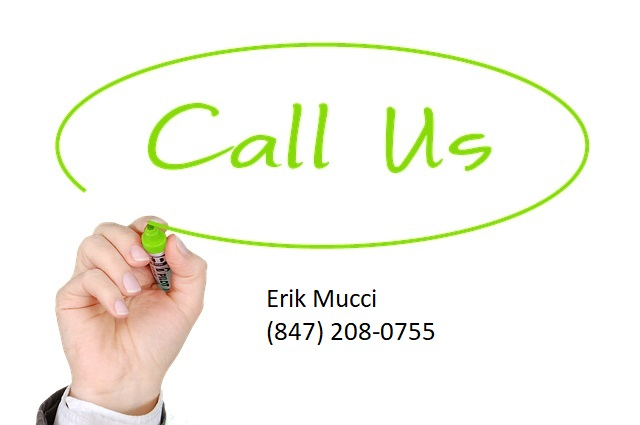
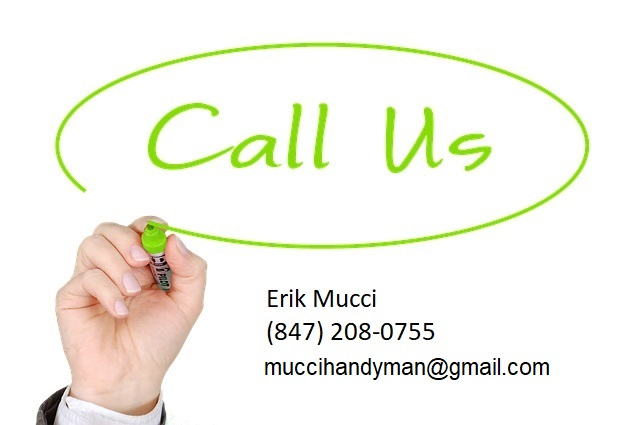
add email to callus

Changed region(s): [[0.4062, 0.8259, 0.875, 0.9176]]

diff --git a/services.html b/services.html
@@ -2,7 +2,8 @@
 <html class="no-js" lang="en">
 <head>
   <meta name="description" content="Mucci & Son contractor services include bath and kitchen remodeling, festool dustless drywall repair, custom woodwork, wood restoration, outside deck, heirloom painting, hardwood flooring, ceramic flooring, electrical and plumbing install">
-  <meta name="keywords" content="remodel, contractor, heirloom, painting, dustless drywall, woodwork, restoration, floor install, electrical, plumbing installation, restore, hardwood, ceramic, custom, kitchen, bedroom, recreation, living room, deck, gazebo, festool, chicago, schaumburg, bonded, licensed, remodeler, custom wood, residential, commercial, quality">
+  <meta name="keywords" content="remodel,contractor,painting,drywall,woodwork,restoration, 
+  residential,commericial,insurance,chicago,northwest suburbs,floor,install,electrical,plumbing,installation,restore, hardwood,ceramic,custom,kitchen,bedroom,deck, gazebo, chicago, schaumburg, northwest suburbs, bonded, licensed, remodeler">
   <meta charset="utf-8">
   <meta name="viewport" content="width=device-width, initial-scale=1.0">
   <link rel="stylesheet" href="css/foundation.css">
@@ -235,10 +236,10 @@
        <h3 id="floorInstallation">FLOOR INSTALLATION</h3 >
        <div>
         <p>
-            Our <span style="font-weight:bold">HARDWOOD FLOORING professionals</span> have 35 years of experience.  You can have your floors cleanly sanded and refinished with a variety of coatings.  Certified ad licensed refinishers will sand and finish your floors to match your needs.  In homes where there may be damage to the wood flooring, our shop can manufacture and match your existing planks.
+            Our <span style="font-weight:bold">HARDWOOD FLOORING professionals</span> have 35 years of experience. You can have your floors cleanly sanded and refinished with a variety of coatings. Certified and licensed refinishers will sand and finish your floors to match your needs. In homes where there may be damage to the wood flooring, our shop can manufacture and match your existing planks.
         </p>
         <p>
-            A variety of patterns are available when you wish to install new hardwood material.  You can choose from unfinished planking that can be sanded and stained to your specifications, or you may wish to select pre-finished material with a UV protective coating.  The choice is yours.  This can be discussed with <span style="font-weight:bold">Mucci and Son Contractors</span>.  Call for a consultation.
+            A variety of patterns are available when you wish to install new hardwood material.  You can choose from unfinished planking that can be sanded and stained to your specifications, or you may wish to select pre-finished material with a UV protective coating.  The choice is yours.  This can be discussed with <span style="font-weight:bold">Mucci and Son Contractors</span>. Call for a consultation.
         </p>
 <!--   		   The floor pictured below is the newer type of vinyl plank flooring.  The prep work was done by the home owner to save on expenses.  <span style="font-weight:bold">“MUCCI &amp; SON CONTRACTORS” </span> installed the vinyl flooring material and later returned to finish the base trim work.  The home owner saved money by doing the demo work of the original flooring material, and removing the old base trim molding. -->
         <p class="show-for-large-only">
@@ -254,7 +255,7 @@
           <figcaption>DARK MAPLE FLOOR!</figcaption>
           <!-- Floor pictures are posted with permission given to Frank Mucci 2018 -->
         <p>
-          More expert floor installations by <span style="font-weight:bold">“MUCCI &amp; SON CONTRACTORS” </span>!
+          More expert floor installations!
         </p>
           <img src="img/MucciFloor05.jpg" alt="Floor Install image">
           <figcaption>FRENCH KNOT WITH EXTRA BAND BORDER</figcaption>
